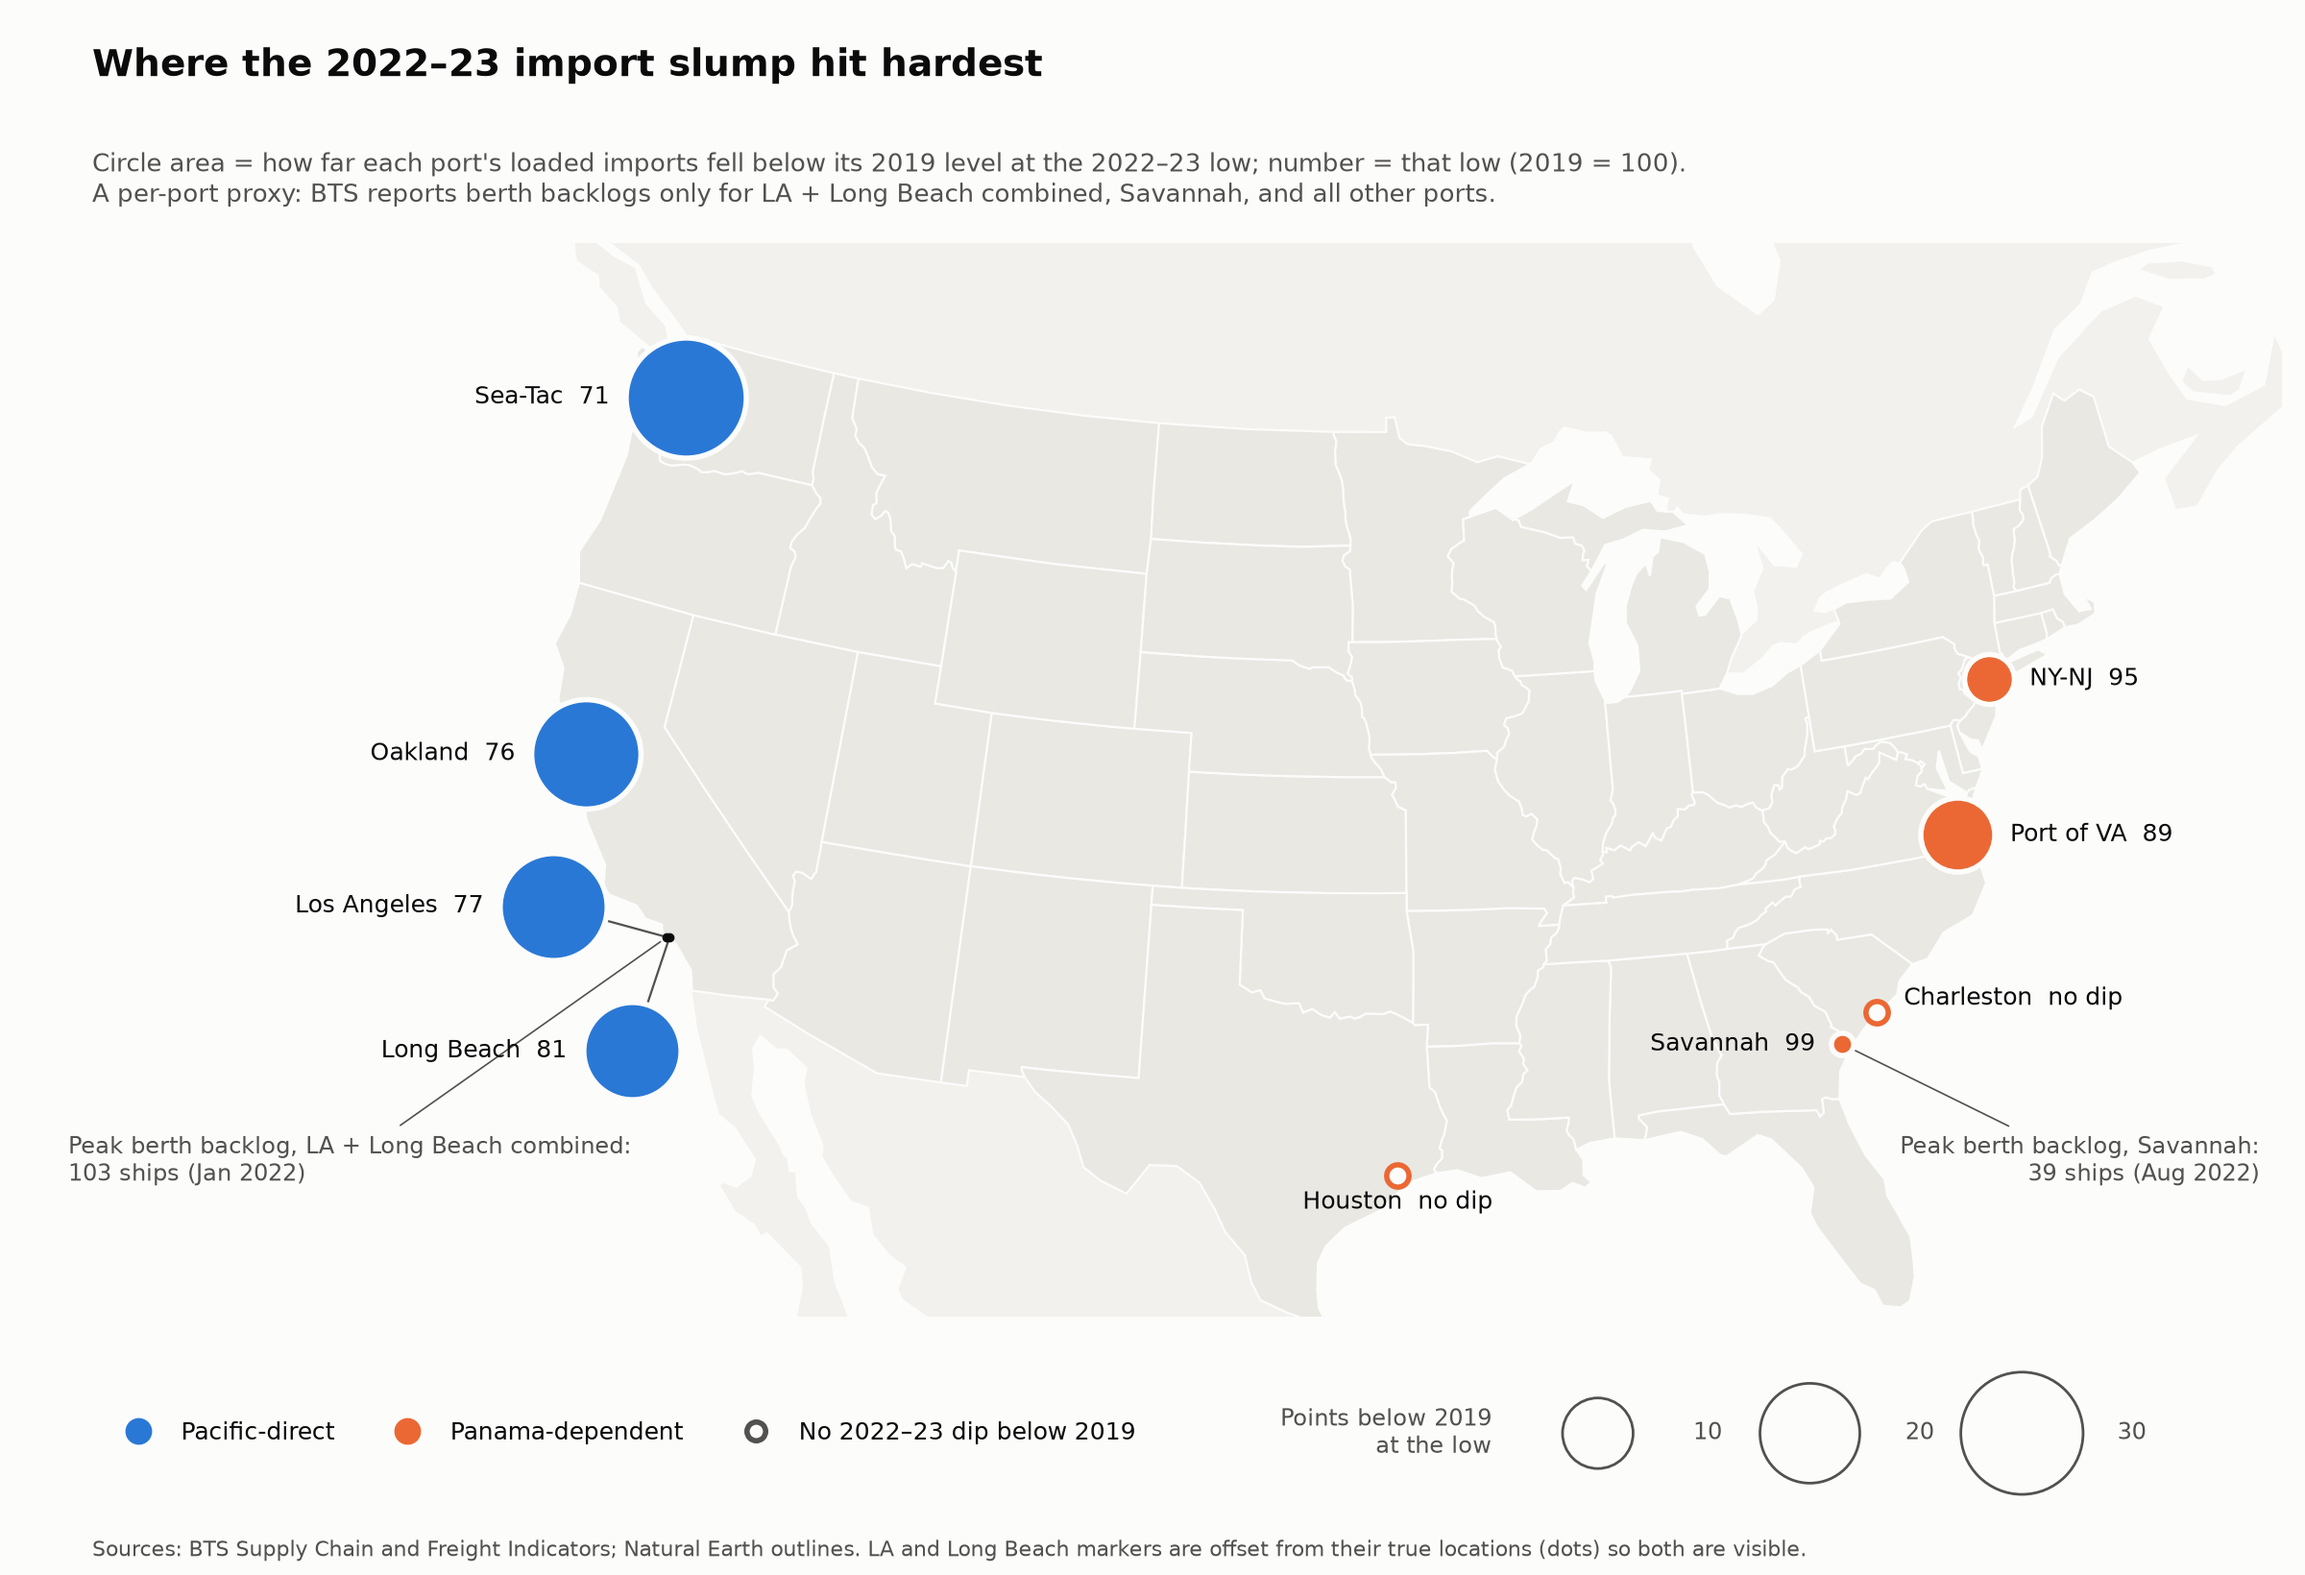
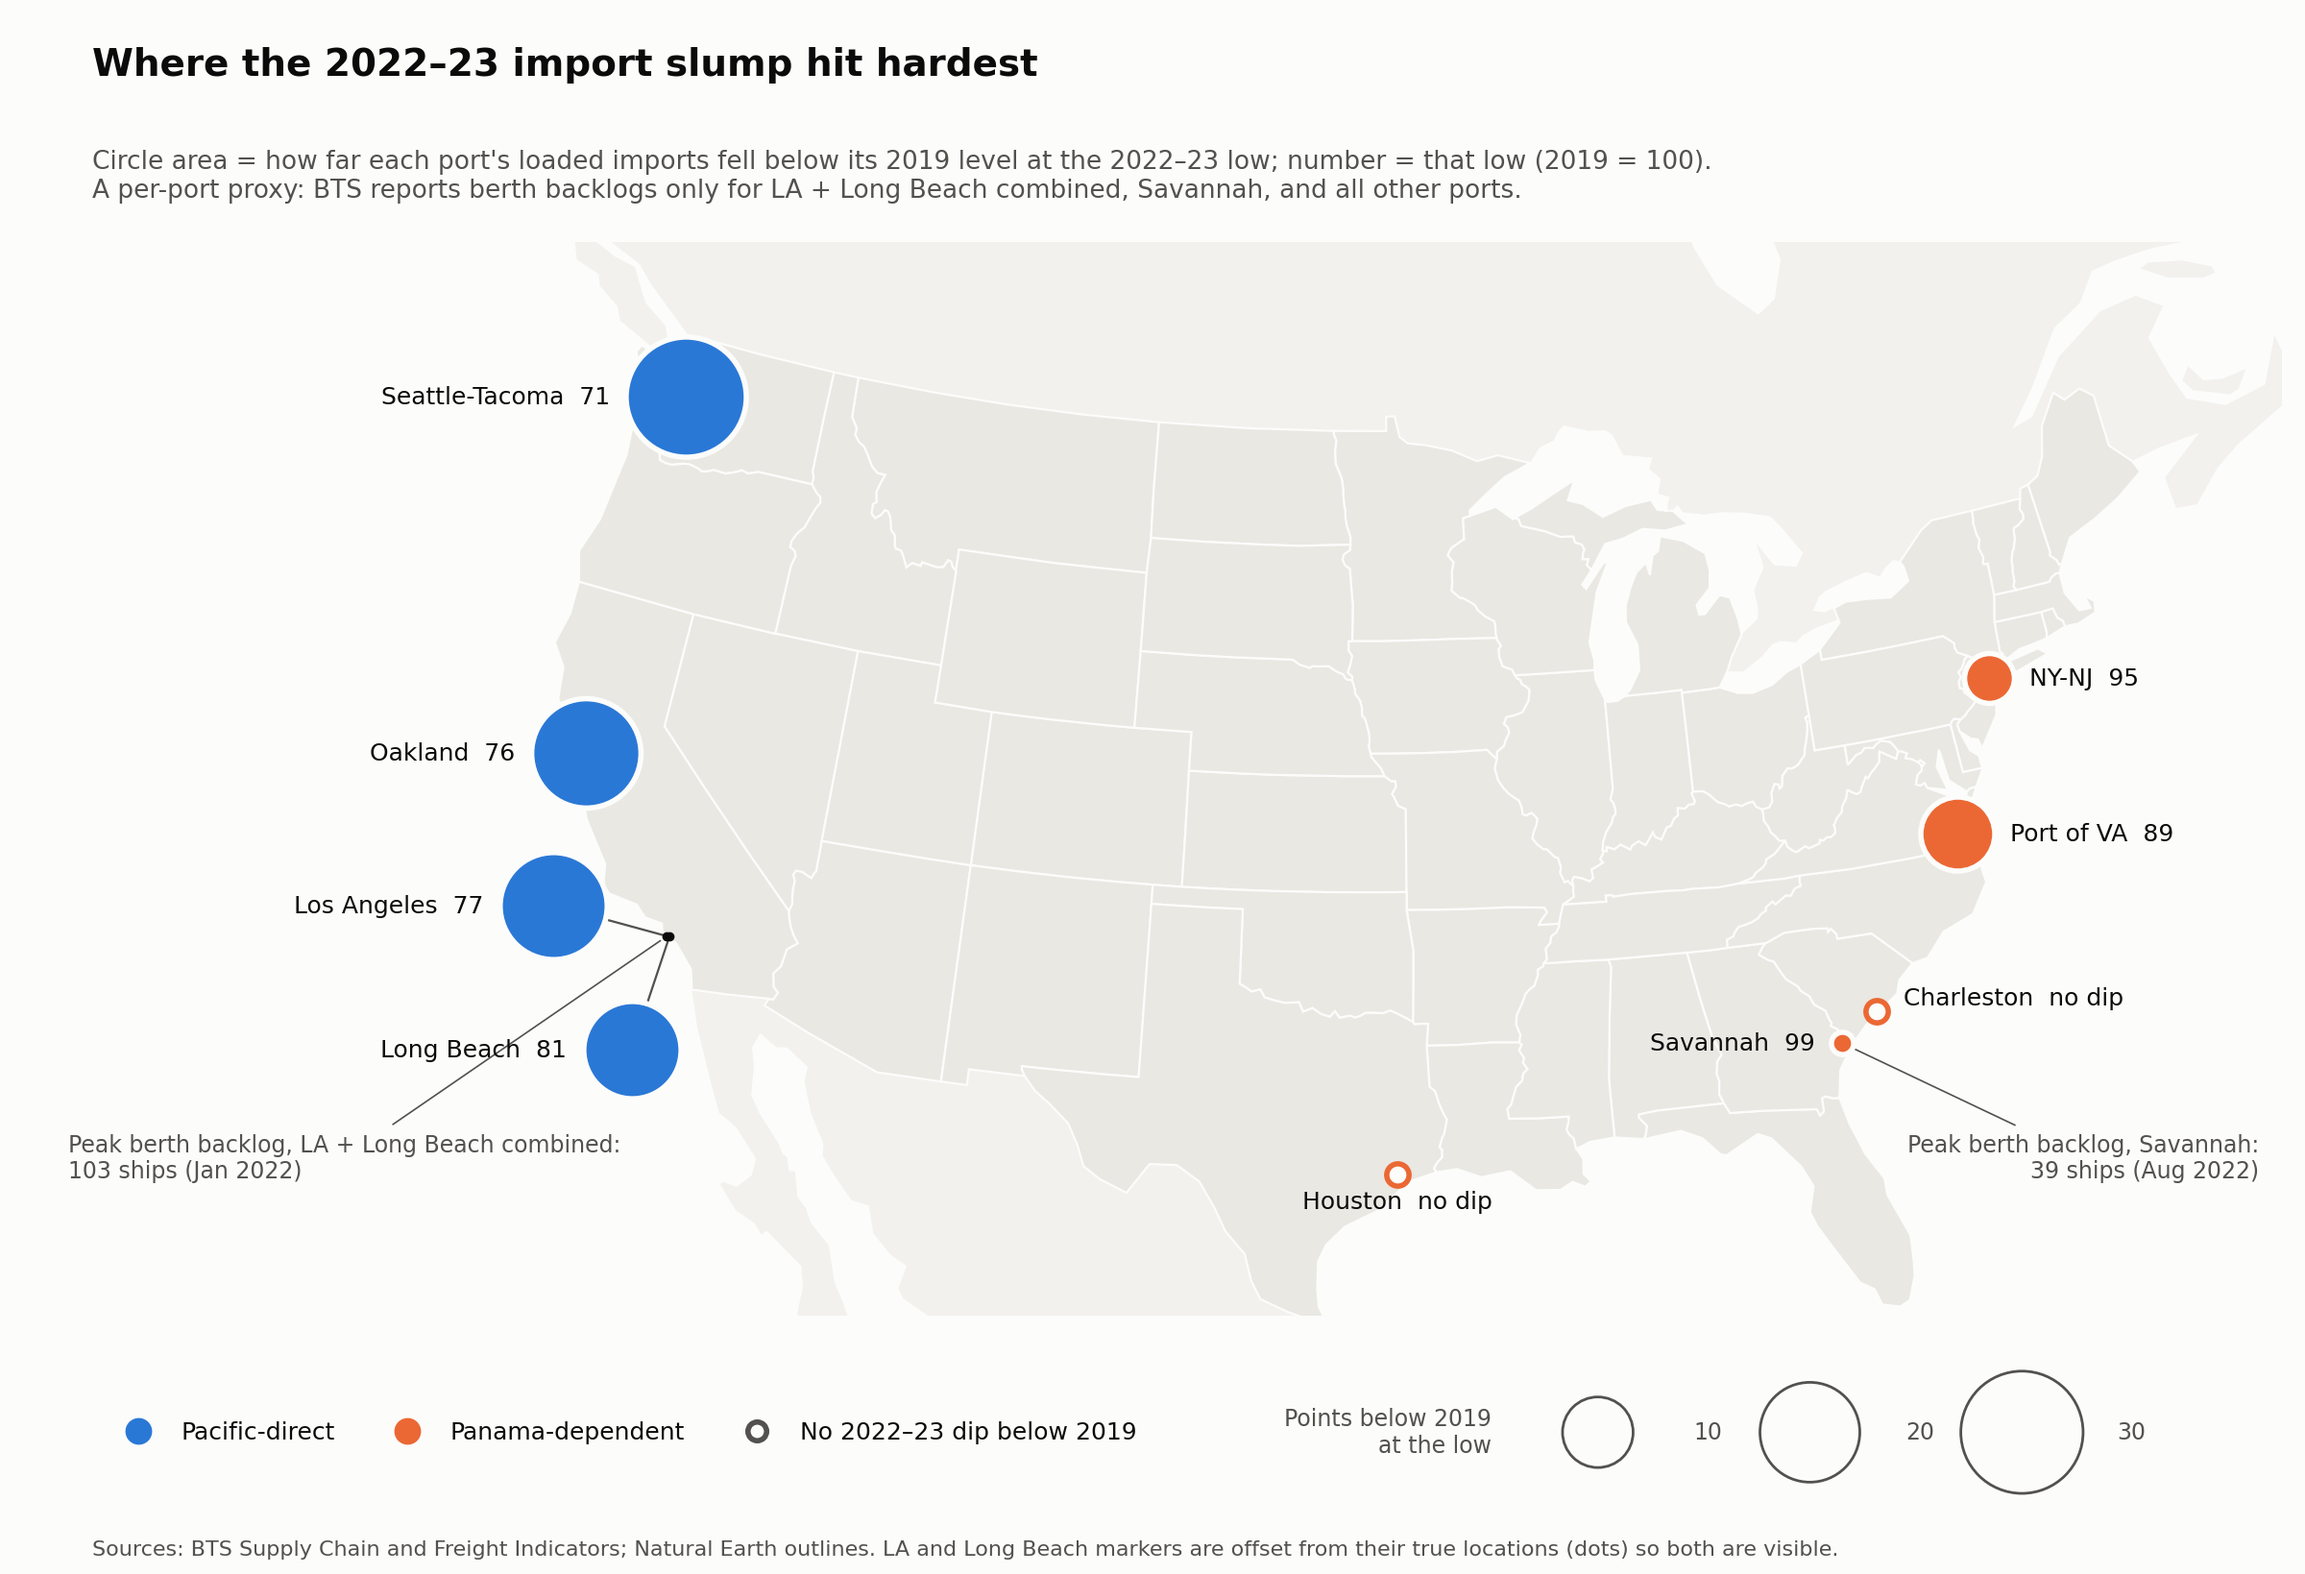
Label Seattle-Tacoma in Q3 charts and README notes; fix Q4 README title

diff --git a/q3-ports/build_port_charts.py b/q3-ports/build_port_charts.py
@@ -47,6 +47,8 @@ TROUGH_SEARCH = ("2022-07", "2023-12")
 RELAPSE_BELOW = 90
 
 # Small-multiple order: Pacific-direct ports first, then Panama-dependent.
+# Chart labels: "Sea-Tac" is the BTS data key for the Seattle-Tacoma seaport.
+DISPLAY_NAMES = {"Sea-Tac": "Seattle-Tacoma"}
 PORT_ORDER = ["Los Angeles", "Long Beach", "Oakland", "Sea-Tac",
               "NY-NJ", "Savannah", "Port of VA", "Charleston", "Houston"]
 
@@ -271,7 +273,7 @@ def build_throughput_chart(index: pd.DataFrame, stats: pd.DataFrame) -> Path:
         ax.axhline(100, color=TEXT_SECONDARY, lw=0.8, ls=(0, (3, 3)), zorder=1)
         ax.plot(s.index, s.values, color=color, lw=2, zorder=3,
                 solid_capstyle="round")
-        ax.set_title(f"{port}  ·  {r['lane_group']}", loc="left", fontsize=10,
+        ax.set_title(f"{DISPLAY_NAMES.get(port, port)}  ·  {r['lane_group']}", loc="left", fontsize=10,
                      color=TEXT_PRIMARY)
         # Selective label: the post-congestion trough and how long recovery took.
         trough = pd.Timestamp(r["trough_month"])

diff --git a/q3-ports/build_port_map.py b/q3-ports/build_port_map.py
@@ -52,6 +52,8 @@ LABELS = {
     "Houston": ((0, -1), "center"),
 }
 LABEL_GAP_PT = 6
+# Chart labels: "Sea-Tac" is the BTS data key for the Seattle-Tacoma seaport.
+DISPLAY_NAMES = {"Sea-Tac": "Seattle-Tacoma"}
 
 SURFACE = "#fcfcfb"
 TEXT_PRIMARY = "#0b0b0b"
@@ -135,7 +137,7 @@ def build_map(stats: pd.DataFrame, backlog: pd.DataFrame) -> Path:
         # Start the label just outside the circle's edge (scatter s = diameter^2).
         offset = np.sqrt(area) / 2 + LABEL_GAP_PT
         value = f"{r['trough_index']:.0f}" if slump > 0 else "no dip"
-        ax.annotate(f"{port}  {value}", (mx, my),
+        ax.annotate(f"{DISPLAY_NAMES.get(port, port)}  {value}", (mx, my),
                     xytext=(sx * offset, sy * offset),
                     textcoords="offset points", ha=ha, va="center",
                     fontsize=9, color=TEXT_PRIMARY, zorder=5)

diff --git a/README.md b/README.md
@@ -127,7 +127,7 @@ The CSVs in `data/processed/` are **frozen snapshots for exploration, not live d
 | `census_exports_all_hs_2013-04_<date>.csv` | The brief's example call: all US exports, Apr 2013, every HS level (filter on `hs_level`) |
 | `census_imports_china_hs2_<date>.csv` | Monthly US imports from China by HS2 chapter, Jan 2013 onward |
 | `census_exports_mexico_hs2_<date>.csv` | Monthly US exports to Mexico by HS2 chapter, Jan 2013 onward |
-| `census_porths_5700_lanes_<date>.csv` | Monthly US imports from China by port of unlading, all commodities, Jan 2019 onward. `bts_port` maps Census port codes to the 9 BTS ports, and `lane_group` is `Panama-dependent` (NY-NJ, Savannah, Port of VA, Charleston, Houston), `Pacific-direct` (LA, Long Beach, Oakland, Sea-Tac), or `Other`. The all-ports total row and `7070 LOW VALUE` are excluded. Both stay in the raw pull (`data/raw/census_porths_5700_<start>_<end>.csv`). Rebuild with `python scripts/pull_census_porths_history.py [CTY_CODE] [START_YEAR]`. |
+| `census_porths_5700_lanes_<date>.csv` | Monthly US imports from China by port of unlading, all commodities, Jan 2019 onward. `bts_port` maps Census port codes to the 9 BTS ports, and `lane_group` is `Panama-dependent` (NY-NJ, Savannah, Port of VA, Charleston, Houston), `Pacific-direct` (LA, Long Beach, Oakland, Seattle-Tacoma), or `Other`. The all-ports total row and `7070 LOW VALUE` are excluded. Both stay in the raw pull (`data/raw/census_porths_5700_<start>_<end>.csv`). Rebuild with `python scripts/pull_census_porths_history.py [CTY_CODE] [START_YEAR]`. |
 
 Census files keep monthly (`_MO`) fields only, renamed to `total_value_usd`, `vessel_value_usd`, `containerized_value_usd`, `air_value_usd`, `vessel_weight_kg`, and `shipment_count`. For imports, `total_value_usd` is the Census "general imports" value (`GEN_VAL_MO`).
 
@@ -157,7 +157,7 @@ Census files keep monthly (`_MO`) fields only, renamed to `total_value_usd`, `ve
 - Every response includes a `PORT == "-"` "TOTAL FOR ALL PORTS" row. **Exclude it before summing**, or totals double.
 - `7070 LOW VALUE` is a pseudo-port for low-value shipments, not a place. Some ports have no name (e.g. `1791`), and the list of ports varies month to month.
 - All-commodity totals (`I_COMMODITY=-`) are fast: about 10s per month, about 16s per full year in one call. Per-port HS2 detail took 60–130s for a single month.
-- Matching BTS port names to Census port codes: NY-NJ ≈ 1003 Newark + 1001 New York; Sea-Tac = 3001 Seattle + 3002 Tacoma; Port of VA ≈ 1401 Norfolk.
+- Matching BTS port names to Census port codes: NY-NJ ≈ 1003 Newark + 1001 New York; Seattle-Tacoma = 3001 Seattle + 3002 Tacoma; Port of VA ≈ 1401 Norfolk.
 
 **BTS Supply Chain and Freight Indicators:** [data.bts.gov dataset `y5ut-ibwt`](https://data.bts.gov/d/y5ut-ibwt) (Socrata API, no key needed)
 - Long format: `date, indicator, measure1 (port/region), value1, units`. Updated weekly.

diff --git a/q4-synthesis/README.md b/q4-synthesis/README.md
@@ -1,4 +1,4 @@
-# Q4 — Synthesis
+# Q4: Synthesis
 
 **Question:** Combining Q1–Q3, which specific lanes came out more resilient, and why?
 
